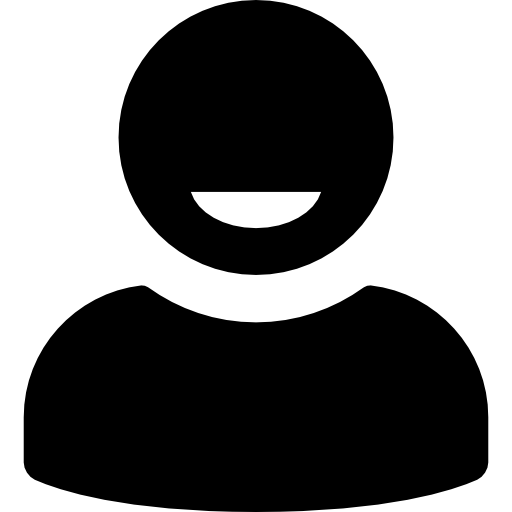
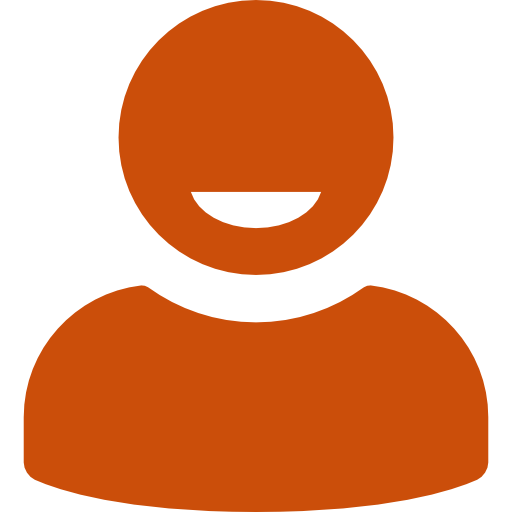
lk page

diff --git a/css/style.css b/css/style.css
@@ -67,7 +67,7 @@ nav{
 }
 h1{
     color: #f2f2f2;
-    font-size: 5em;
+    font-size: 4em;
     line-height: 1;
     font-family: 'Montsterrat-bi';
 }
@@ -309,7 +309,7 @@ footer{
     font-size: 0.8em;
     margin-bottom: 50px;
 }
-.new{
+.new, .trust-card, .account-data-card{
     background-color: #2a2a2a;
     padding: 30px;
     border-radius: 30px;  
@@ -384,4 +384,111 @@ footer{
 }
 .carousel-btn:active {
     transform: scale(0.95);
+}
+
+.trust-cards{
+    display: grid;
+    gap: 30px;
+    height: 80%;
+    grid-template-columns: 1fr 1fr 1fr;
+    grid-template-rows: 2fr 1fr 2fr;
+}
+.trust-card, .account-data-card{
+    display: flex;
+    flex-direction: column;
+    align-items: center;
+    justify-content: center;
+    text-align: center;
+    gap: 10px;
+}
+.trust-card:first-child, .trust-card:last-child{
+    padding: 0;
+}
+.trust-card img{
+    background-size: cover;
+    background-repeat: no-repeat;
+    width: 100%;  
+    height: 100%;
+    filter: hue-rotate(-20deg) saturate(1.3);
+}
+.trust-card:last-child{
+    grid-column: 2/4;
+    grid-row: 3;
+}
+.trust-card:nth-child(2){
+    grid-row: 1/3;
+}
+.trust-card:nth-child(3){
+    background-color: #ca7141;
+}
+.trust-card:nth-child(4){
+    grid-column: 1;
+    grid-row: 2/4;
+    background-color: #cb4e0a;
+}
+.trust-card:nth-child(5){
+    grid-column: 3;
+}
+
+.main-account-section{
+    height: 50%;
+    display: grid;
+    gap: 30px;
+    row-gap: 90px;
+    grid-template-rows: 1.5fr 1fr;
+    grid-template-columns: 0.8fr 1fr 0.5fr; 
+}
+.account-data-card, .data{
+    text-align: left;
+    align-items: baseline;
+    justify-content: flex-start;
+    height: 100%;
+}
+.account-data-card:first-child{
+    align-items: end;
+    background-color: #cb4e0a;
+}
+.account-data-card:last-child{
+    align-items: end;
+}
+.account-data-card:first-child .data, .account-data-card:last-child .data-card{
+    width: 100%;
+    justify-content: start;
+}
+.account-data-card:nth-child(3){
+    grid-row: 1/3;
+    grid-column: 3;
+}
+.account-data-card button:hover{
+    border: 1px solid #1a1a1a;
+    background-color: #f2f2f2;
+    color: #1a1a1a;
+}
+.data-card{
+    display: flex;
+    gap: 30px;
+    align-items: center;
+    justify-content: center;
+    height: 100%;
+}
+.circle img{
+    width: 100%;
+}
+.data{
+    display: flex;
+    flex-direction: column;
+    gap: 10px;
+}
+.circle{
+    width: 80px;
+    height: 80px;
+    padding: 20px;
+    border-radius: 150px;
+    display: flex;
+    align-items: center;
+    justify-content: center;
+    background-color:#da9672;
+}
+.circle h2{
+    color: #cb4e0a;
 }

diff --git a/pages/account.html b/pages/account.html
@@ -1,0 +1,80 @@
+<!DOCTYPE html>
+<html lang="ru">
+<head>
+    <meta charset="UTF-8">
+    <meta name="viewport" content="width=device-width, initial-scale=1.0">
+    <link rel="stylesheet" href="../css/style.css">
+    <title>Аккаунт</title>
+</head>
+<body>
+    <header>
+        <a href="../index.html"><img src="../img/svg/logo.svg" alt="logo" class="logo"></a>
+        <nav>
+            <a href="#">Акции</a>
+            <a href="../pages/bron.html">Бронирование</a>
+            <a href="#"><img src="../img/svg/account.svg" alt="account" class="account"></a>
+        </nav>
+    </header>
+
+    <main>
+        <h1>Личный кабинет</h1>
+        <div class="main-account-section">
+            <div class="account-data-card">
+                <div class="data">
+                    <h2>Брони</h2>
+                    <p>[Сейчас ни одна машина не забронирована]</p>
+                </div>
+                <button class="cta btn-black" onclick="window.location.href='../pages/bron.html'">Каталог</button>
+            </div>
+            <div class="account-data-card">
+                <div class="data-card">
+                    <div class="circle">
+                        <h2>0</h2>
+                    </div>
+                    <div class="data">
+                        <h2>Баллы</h2>
+                        <p><span>[Сумма брони]</span>&nbsp;0 руб</p>
+                    </div>
+                </div>
+            </div>
+            <div class="account-data-card">
+                <div class="data">
+                    <h2>История</h2>
+                    <p><span>[Количество]</span>&nbsp;0</p>
+                </div>
+            </div>
+            <div class="account-data-card">
+                <div class="data-card">
+                    <img src="../img/svg/user.png" alt="user" class="circle">
+                    <div class="data">
+                        <h2>Фамилия Имя Отчество</h2>
+                        <p><span>[Телефон]</span>&nbsp;8 999 999-99-99</p>
+                        <p><span>[Дата рождения]</span>&nbsp;01.01.2000</p>
+                    </div>
+                </div>
+            </div>
+            <div class="account-data-card">
+                <div class="data-card">
+                    <div class="circle">
+                        <img src="../img/card/card.png" alt="card">
+                    </div>
+                    <div class="data">
+                        <h2>Банковские карты</h2>
+                        <p><span>[Пока нет привязанных карт]</span></p>
+                    </div>
+                </div>
+                <button class="stroke">Привязать карту</button>
+            </div>
+        </div>
+    </main>
+
+    <footer>
+        <nav>
+            <a href="#">Акции</a>
+            <a href="bron.html">Бронирование</a>
+            <a href="login.html">Личный кабинет</a>
+        </nav>
+        <p>8 (800) 111-11-11</p>
+    </footer>
+</body>
+</html>

diff --git a/index.html b/index.html
@@ -10,7 +10,7 @@
     <header>
         <a href="index.html"><img src="./img/svg/logo.svg" alt="logo" class="logo"></a>
         <nav>
-            <a href="#">Акции</a>
+            <a href="pages/account.html">Акции</a>
             <a href="pages/bron.html">Бронирование</a>
             <a href="pages/login.html"><img src="./img/svg/account.svg" alt="account" class="account"></a>
         </nav>
@@ -37,11 +37,35 @@
             </div>
         </div>
     </main>
-    <!-- <section class="section-trust">
-
-    </section> -->
+    <section class="section-trust">
+        <h1>Ваше движение - наша забота</h1>
+        <div class="trust-cards">
+            <div class="trust-card">
+                <img src="./img/roads/roadrage.jpg" alt="road">
+            </div>
+            <div class="trust-card">
+                <h2>Чистота и порядок</h2>
+                <p>каждый авто проходит химчистку после клиента</p>
+            </div>
+            <div class="trust-card">
+                <h2>Регулярное ТО</h2>
+                <p>все машины обслуживаются по строгому графику</p>
+            </div>
+            <div class="trust-card">
+                <h2>Полная страховка </h2>
+                <p>включена КАСКО и страхование ответственности</p>
+            </div>
+            <div class="trust-card">
+                <h2>Цифровая история</h2>
+                <p>все поездки фиксируются в личном кабинете</p>
+            </div>
+            <div class="trust-card">
+                <img src="./img/roads/background.png" alt="road" >
+            </div>
+        </div>
+    </section>
     <section class="section-search">
-        <h2>Найти автомобиль</h2>
+        <h1>Найти автомобиль</h1>
         <div class="search">
             <div class="search-btns">
                 <button class="stroke" id="econom-btn">Эконом</button>
@@ -54,7 +78,7 @@
     </section>
 
     <section class="search-results-section" style="display: none;">
-        <h2>Результаты поиска</h2>
+        <h1>Результаты поиска</h1>
         <div class="carousel-container">
             <button class="carousel-btn prev-btn">
                 <span>&#8592;</span>
@@ -72,7 +96,7 @@
 
     <section class="section-news">
         <div class="news">
-            <h2>Новости</h2>
+            <h1>Новости</h1>
             <div class="new">
                 <img src="./img/roads/road-travel.jpg" alt="new" class="news-img">
                 <div class="new-content">

diff --git a/pages/registration.html b/pages/registration.html
@@ -12,12 +12,12 @@
         <nav>
             <a href="#">Акции</a>
             <a href="../pages/bron.html">Бронирование</a>
-            <a href="#"><img src="../img/svg/account.svg" alt="account" class="account"></a>
+            <a href="../pages/login.html"><img src="../img/svg/account.svg" alt="account" class="account"></a>
         </nav>
     </header>
 
     <main>
-        <h2>Регистрация</h2>
+        <h1>Регистрация</h1>
             <div class="form">
                 <div class="user-info">
                     <div class="inp">
@@ -29,7 +29,7 @@
                         <input type="text" name="surname" id="surname" placeholder="Фамилия">
                     </div>
                     <div class="inp">
-                        <label for="patr">Дата возврата</label>
+                        <label for="patr">Отчество</label>
                         <input type="text" name="patr" id="patr" placeholder="Отчество">
                     </div>
                     <div class="inp">

diff --git a/pages/login.html b/pages/login.html
@@ -17,7 +17,7 @@
     </header>
 
     <main>
-        <h2>Вход в личный кабинет</h2>
+        <h1>Вход в личный кабинет</h1>
             <div class="form-lk">
                 <div class="inp">
                     <label for="phone">Номер телефона</label>